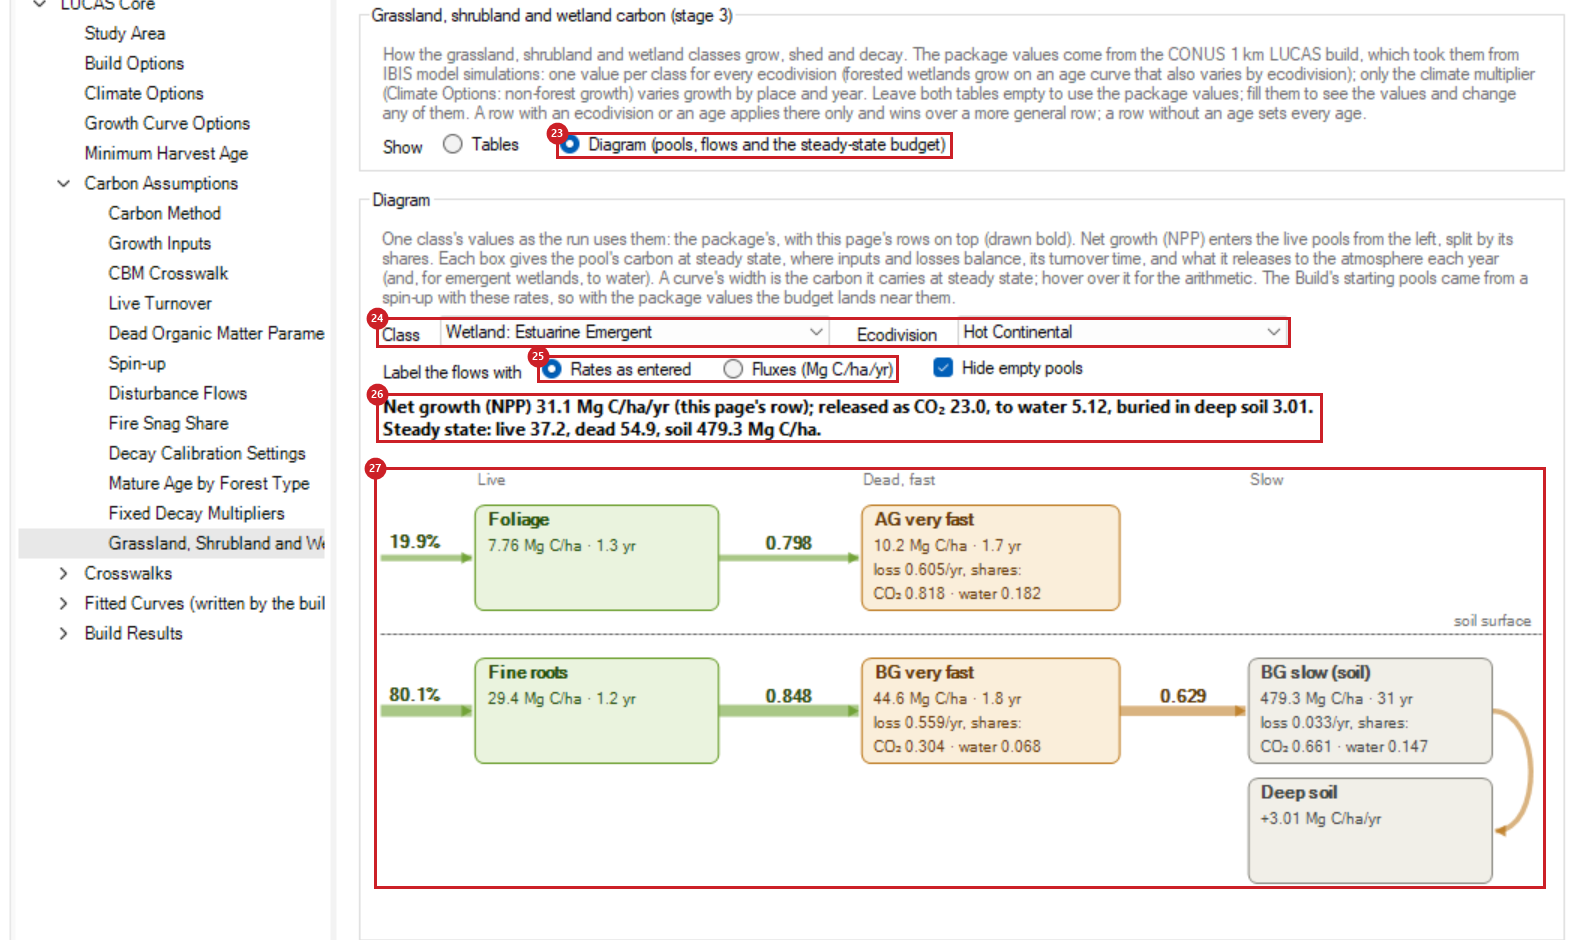
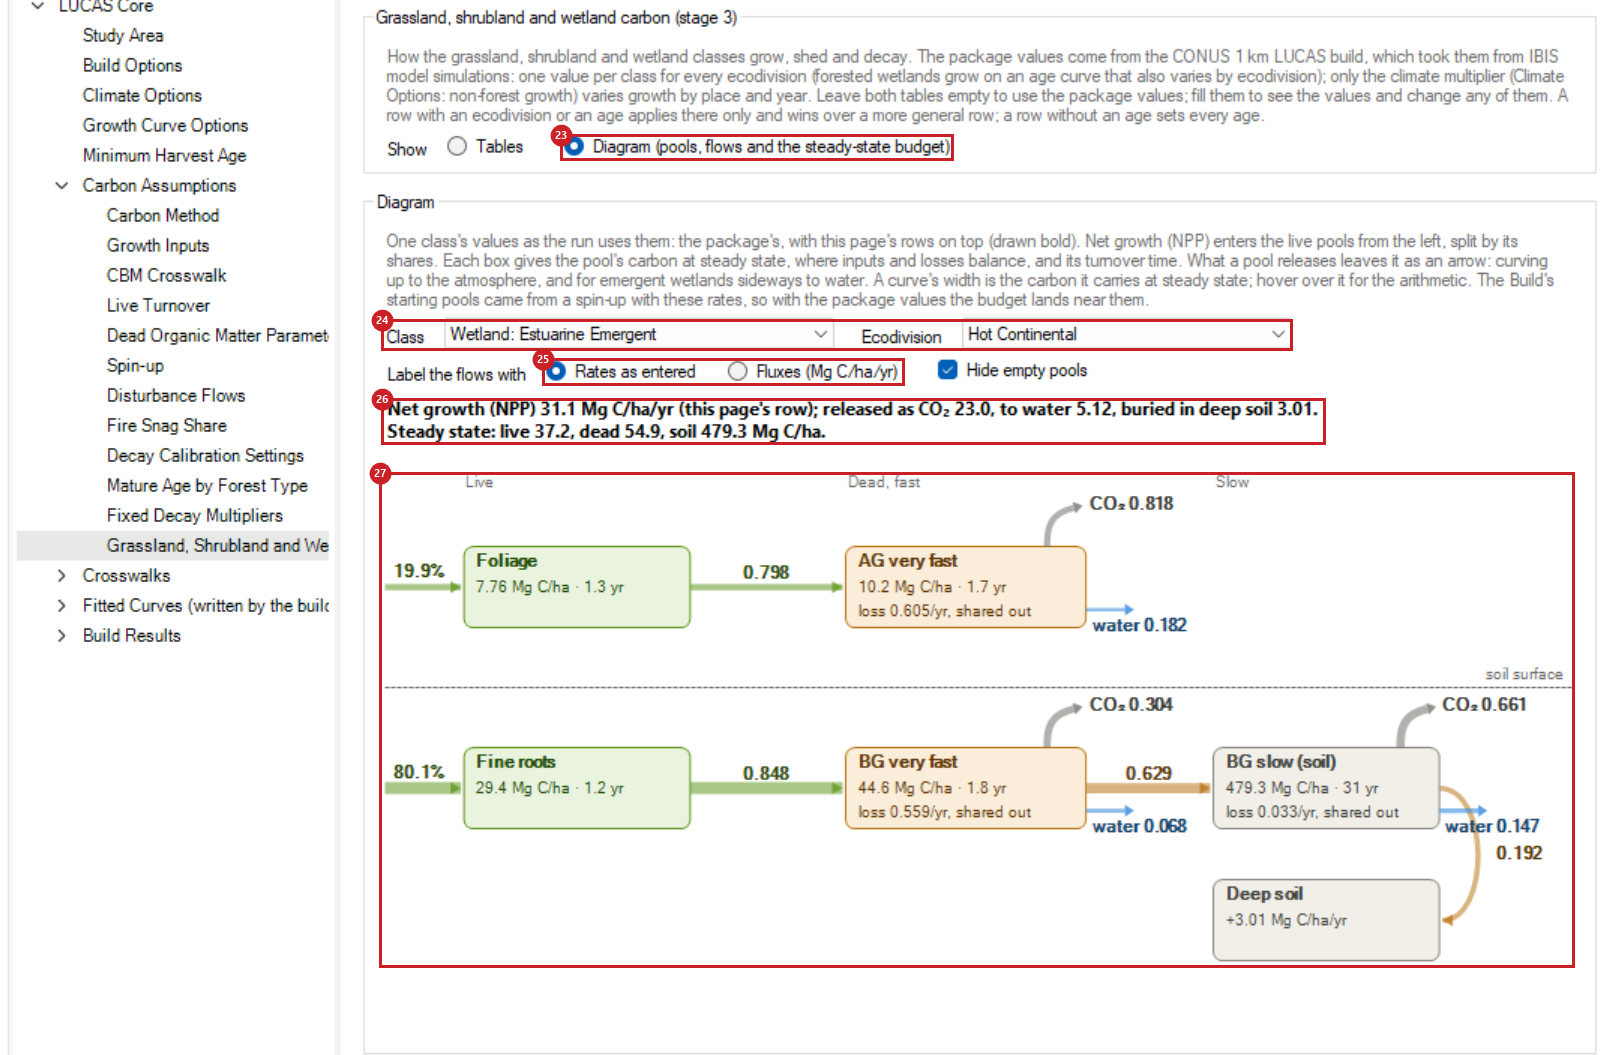
Guide: Figure 3.17 and its text show the diagram's CO2 and water outflow arrows; snapshot rebuilt

Changed region(s): [[0.0312, 0.0, 0.9981, 0.9564]]

diff --git a/docs/guide/index.html b/docs/guide/index.html
@@ -261,9 +261,9 @@ Dependencies: none. Pipeline: stages 0, 1, 5, 2, 3, 4, 6, 7, 8.</code></pre>
 <p>Change a value to override it; a row with an ecodivision or an age applies there only. Net Growth flows split a class&#39;s growth among its live pools and must add to 1. For emergent wetlands, a flow named for a pool alone (for example BG Slow -&gt;) is that pool&#39;s total yearly loss, and the flows out of it are shares of that loss, adding to 1. Stage 3 checks both and logs how many values differ from the package&#39;s. The starting carbon of these classes is still the package&#39;s table, so a changed rate acts from the first year but does not change the 1985 pools.</p>
 <p><img src="images/fig-3.16.png" loading="lazy" alt="The Grassland, Shrubland and Wetland Carbon page after Fill: the page marked 20, the Growth table 21 and the Rates table 22"></p>
 <p><em>Figure 3.16. Grassland, Shrubland and Wetland Carbon after Fill: each class&#39;s net growth, and the share or yearly rate of each flow.</em></p>
-<p><strong>Diagram view.</strong> <strong>Show: Diagram</strong> (23) draws one class as an ecologist would sketch it. Pick the class and ecodivision (24), and an age for forested wetlands, whose rates change with age. The values are the ones the Build uses: the package&#39;s, with this page&#39;s rows on top, drawn bold. Live pools sit on the left, fast dead pools in the middle and slow pools on the right, above and below the soil surface. Net growth (NPP) enters the live pools from the left, split by its shares. Each box gives the pool&#39;s carbon at steady state, where inputs and losses balance, its turnover time and its yearly release to the atmosphere (and to water, for emergent wetlands). A curve&#39;s width is the carbon it carries at steady state; label the curves with the rates as entered or with the fluxes (25), and hover over one for the rate x stock = flux arithmetic.</p>
+<p><strong>Diagram view.</strong> <strong>Show: Diagram</strong> (23) draws one class as an ecologist would sketch it. Pick the class and ecodivision (24), and an age for forested wetlands, whose rates change with age. The values are the ones the Build uses: the package&#39;s, with this page&#39;s rows on top, drawn bold. Live pools sit on the left, fast dead pools in the middle and slow pools on the right, above and below the soil surface. Net growth (NPP) enters the live pools from the left, split by its shares. Each box gives the pool&#39;s carbon at steady state, where inputs and losses balance, and its turnover time; an emergent wetland pool also gives its total yearly loss, which its outflows share. What a pool releases leaves it as an arrow: curving up from its top right corner to the atmosphere, and for emergent wetlands sideways to water. A curve&#39;s or arrow&#39;s width is the carbon it carries at steady state; label them with the rates as entered or with the fluxes (25), and hover over one for the rate x stock = flux arithmetic.</p>
 <p>The line above the drawing (26) totals the budget: NPP, what leaves as CO2, to water and into deep soil, the steady-state live, dead and soil carbon, and the class&#39;s starting pools in the newest Build result. Grassland and shrubland starting pools came from a spin-up with these rates, so the budget lands near them (chaparral in P26: live 7.0, dead 33.8 and soil 75.3 Mg C/ha, against starting pools of 7.0, 29.8 and 74.6), and a changed rate shows its long-run effect in the drawing (27) at once. The emergent wetlands&#39; rates settle well above their starting pools (palustrine emergent live 36 against 4.9 Mg C/ha), a mismatch for the science step to resolve.</p>
-<p><img src="images/fig-3.17.png" loading="lazy" alt="The diagram view for Wetland: Estuarine Emergent in Hot Continental: Show Diagram marked 23, the Class and Ecodivision drop-downs marked 24, the Rates as entered / Fluxes choice marked 25, the budget line (net growth 31.1 Mg C/ha/yr; released as CO2 23.0, to water 5.12, buried in deep soil 3.01; steady state live 37.2, dead 54.9, soil 479.3 Mg C/ha) marked 26, and the drawing marked 27: net growth entering foliage (19.9%) and fine roots (80.1%), turnover to AG very fast (0.798) and BG very fast (0.848), decay to BG slow (0.629), and BG slow feeding deep soil"></p>
+<p><img src="images/fig-3.17.png" loading="lazy" alt="The diagram view for Wetland: Estuarine Emergent in Hot Continental: Show Diagram marked 23, the Class and Ecodivision drop-downs marked 24, the Rates as entered / Fluxes choice marked 25, the budget line (net growth 31.1 Mg C/ha/yr; released as CO2 23.0, to water 5.12, buried in deep soil 3.01; steady state live 37.2, dead 54.9, soil 479.3 Mg C/ha) marked 26, and the drawing marked 27: net growth entering foliage (19.9%) and fine roots (80.1%), turnover to AG very fast (0.798) and BG very fast (0.848), decay to BG slow (0.629) and from it to deep soil (0.192), with CO2 arrows curving up from AG very fast (0.818), BG very fast (0.304) and BG slow (0.661) and water arrows to the right (0.182, 0.068 and 0.147)"></p>
 <p><em>Figure 3.17. The diagram view for estuarine emergent wetland in the Hot Continental ecodivision: 31.1 Mg C/ha/yr of net growth leaves as CO2 (23.0), to water (5.1) and into deep soil (3.0).</em></p>
 <p><strong>Spin-up</strong> (28) sets the history each forest cell&#39;s starting carbon is spun up with. Its defaults come from the study area, so the Build works them out: the return interval of stand-replacing fire from LANDFIRE&#39;s fire regime maps (stage 5), every past cycle ended by high-severity fire, and a cell outside the fire perimeters of 1900 to the start year starting from a clearcut (stage 8). Fill writes nothing here. The page lists each ecodivision and forest type with its cells and its LANDFIRE interval (29) from the newest Build result, named above the table; before the first Build it shows the package&#39;s provisional intervals. Type a value in a shaded column to replace a default: your interval (30), with the interval the run takes beside it (31), or the share of past cycles ended by clearcut and the last disturbance outside fire perimeters (32). <strong>All rows</strong>, below, also takes rows for a forest type in all ecodivisions; an ecodivision row wins over them.</p>
 <p><img src="images/fig-3.18.png" loading="lazy" alt="The Spin-up page with an empty sheet: Spin-up marked 28, the line naming Build result [53], and the table of ecodivisions and forest types with cells, the LANDFIRE interval column marked 29, Your interval marked 30, Interval used marked 31, and the share of cycles ended by clearcut and the last disturbance marked 32"></p>

diff --git a/docs/guide/source/user-guide.html b/docs/guide/source/user-guide.html
@@ -180,9 +180,9 @@ Dependencies: none. Pipeline: stages 0, 1, 5, 2, 3, 4, 6, 7, 8.</code></pre>
 <p>Change a value to override it; a row with an ecodivision or an age applies there only. Net Growth flows split a class&#39;s growth among its live pools and must add to 1. For emergent wetlands, a flow named for a pool alone (for example BG Slow -&gt;) is that pool&#39;s total yearly loss, and the flows out of it are shares of that loss, adding to 1. Stage 3 checks both and logs how many values differ from the package&#39;s. The starting carbon of these classes is still the package&#39;s table, so a changed rate acts from the first year but does not change the 1985 pools.</p>
 <p><img src="blob/f79b73ff-4c4e" alt="The Grassland, Shrubland and Wetland Carbon page after Fill: the page marked 20, the Growth table 21 and the Rates table 22"></p>
 <p><em>Figure 3.16. Grassland, Shrubland and Wetland Carbon after Fill: each class&#39;s net growth, and the share or yearly rate of each flow.</em></p>
-<p><strong>Diagram view.</strong> <strong>Show: Diagram</strong> (23) draws one class as an ecologist would sketch it. Pick the class and ecodivision (24), and an age for forested wetlands, whose rates change with age. The values are the ones the Build uses: the package&#39;s, with this page&#39;s rows on top, drawn bold. Live pools sit on the left, fast dead pools in the middle and slow pools on the right, above and below the soil surface. Net growth (NPP) enters the live pools from the left, split by its shares. Each box gives the pool&#39;s carbon at steady state, where inputs and losses balance, its turnover time and its yearly release to the atmosphere (and to water, for emergent wetlands). A curve&#39;s width is the carbon it carries at steady state; label the curves with the rates as entered or with the fluxes (25), and hover over one for the rate x stock = flux arithmetic.</p>
+<p><strong>Diagram view.</strong> <strong>Show: Diagram</strong> (23) draws one class as an ecologist would sketch it. Pick the class and ecodivision (24), and an age for forested wetlands, whose rates change with age. The values are the ones the Build uses: the package&#39;s, with this page&#39;s rows on top, drawn bold. Live pools sit on the left, fast dead pools in the middle and slow pools on the right, above and below the soil surface. Net growth (NPP) enters the live pools from the left, split by its shares. Each box gives the pool&#39;s carbon at steady state, where inputs and losses balance, and its turnover time; an emergent wetland pool also gives its total yearly loss, which its outflows share. What a pool releases leaves it as an arrow: curving up from its top right corner to the atmosphere, and for emergent wetlands sideways to water. A curve&#39;s or arrow&#39;s width is the carbon it carries at steady state; label them with the rates as entered or with the fluxes (25), and hover over one for the rate x stock = flux arithmetic.</p>
 <p>The line above the drawing (26) totals the budget: NPP, what leaves as CO2, to water and into deep soil, the steady-state live, dead and soil carbon, and the class&#39;s starting pools in the newest Build result. Grassland and shrubland starting pools came from a spin-up with these rates, so the budget lands near them (chaparral in P26: live 7.0, dead 33.8 and soil 75.3 Mg C/ha, against starting pools of 7.0, 29.8 and 74.6), and a changed rate shows its long-run effect in the drawing (27) at once. The emergent wetlands&#39; rates settle well above their starting pools (palustrine emergent live 36 against 4.9 Mg C/ha), a mismatch for the science step to resolve.</p>
-<p><img src="blob/ad1a9334-6dd4" alt="The diagram view for Wetland: Estuarine Emergent in Hot Continental: Show Diagram marked 23, the Class and Ecodivision drop-downs marked 24, the Rates as entered / Fluxes choice marked 25, the budget line (net growth 31.1 Mg C/ha/yr; released as CO2 23.0, to water 5.12, buried in deep soil 3.01; steady state live 37.2, dead 54.9, soil 479.3 Mg C/ha) marked 26, and the drawing marked 27: net growth entering foliage (19.9%) and fine roots (80.1%), turnover to AG very fast (0.798) and BG very fast (0.848), decay to BG slow (0.629), and BG slow feeding deep soil"></p>
+<p><img src="blob/7157dc3e-3bf4" alt="The diagram view for Wetland: Estuarine Emergent in Hot Continental: Show Diagram marked 23, the Class and Ecodivision drop-downs marked 24, the Rates as entered / Fluxes choice marked 25, the budget line (net growth 31.1 Mg C/ha/yr; released as CO2 23.0, to water 5.12, buried in deep soil 3.01; steady state live 37.2, dead 54.9, soil 479.3 Mg C/ha) marked 26, and the drawing marked 27: net growth entering foliage (19.9%) and fine roots (80.1%), turnover to AG very fast (0.798) and BG very fast (0.848), decay to BG slow (0.629) and from it to deep soil (0.192), with CO2 arrows curving up from AG very fast (0.818), BG very fast (0.304) and BG slow (0.661) and water arrows to the right (0.182, 0.068 and 0.147)"></p>
 <p><em>Figure 3.17. The diagram view for estuarine emergent wetland in the Hot Continental ecodivision: 31.1 Mg C/ha/yr of net growth leaves as CO2 (23.0), to water (5.1) and into deep soil (3.0).</em></p>
 <p><strong>Spin-up</strong> (28) sets the history each forest cell&#39;s starting carbon is spun up with. Its defaults come from the study area, so the Build works them out: the return interval of stand-replacing fire from LANDFIRE&#39;s fire regime maps (stage 5), every past cycle ended by high-severity fire, and a cell outside the fire perimeters of 1900 to the start year starting from a clearcut (stage 8). Fill writes nothing here. The page lists each ecodivision and forest type with its cells and its LANDFIRE interval (29) from the newest Build result, named above the table; before the first Build it shows the package&#39;s provisional intervals. Type a value in a shaded column to replace a default: your interval (30), with the interval the run takes beside it (31), or the share of past cycles ended by clearcut and the last disturbance outside fire perimeters (32). <strong>All rows</strong>, below, also takes rows for a forest type in all ecodivisions; an ecodivision row wins over them.</p>
 <p><img src="blob/1a62f022-0b22" alt="The Spin-up page with an empty sheet: Spin-up marked 28, the line naming Build result [53], and the table of ecodivisions and forest types with cells, the LANDFIRE interval column marked 29, Your interval marked 30, Interval used marked 31, and the share of cycles ended by clearcut and the last disturbance marked 32"></p>

diff --git a/docs/guide/user-guide.md b/docs/guide/user-guide.md
@@ -486,11 +486,11 @@ Change a value to override it; a row with an ecodivision or an age applies there
 
 *Figure 3.16. Grassland, Shrubland and Wetland Carbon after Fill: each class's net growth, and the share or yearly rate of each flow.*
 
-**Diagram view.** **Show: Diagram** (23) draws one class as an ecologist would sketch it. Pick the class and ecodivision (24), and an age for forested wetlands, whose rates change with age. The values are the ones the Build uses: the package's, with this page's rows on top, drawn bold. Live pools sit on the left, fast dead pools in the middle and slow pools on the right, above and below the soil surface. Net growth (NPP) enters the live pools from the left, split by its shares. Each box gives the pool's carbon at steady state, where inputs and losses balance, its turnover time and its yearly release to the atmosphere (and to water, for emergent wetlands). A curve's width is the carbon it carries at steady state; label the curves with the rates as entered or with the fluxes (25), and hover over one for the rate x stock = flux arithmetic.
+**Diagram view.** **Show: Diagram** (23) draws one class as an ecologist would sketch it. Pick the class and ecodivision (24), and an age for forested wetlands, whose rates change with age. The values are the ones the Build uses: the package's, with this page's rows on top, drawn bold. Live pools sit on the left, fast dead pools in the middle and slow pools on the right, above and below the soil surface. Net growth (NPP) enters the live pools from the left, split by its shares. Each box gives the pool's carbon at steady state, where inputs and losses balance, and its turnover time; an emergent wetland pool also gives its total yearly loss, which its outflows share. What a pool releases leaves it as an arrow: curving up from its top right corner to the atmosphere, and for emergent wetlands sideways to water. A curve's or arrow's width is the carbon it carries at steady state; label them with the rates as entered or with the fluxes (25), and hover over one for the rate x stock = flux arithmetic.
 
 The line above the drawing (26) totals the budget: NPP, what leaves as CO2, to water and into deep soil, the steady-state live, dead and soil carbon, and the class's starting pools in the newest Build result. Grassland and shrubland starting pools came from a spin-up with these rates, so the budget lands near them (chaparral in P26: live 7.0, dead 33.8 and soil 75.3 Mg C/ha, against starting pools of 7.0, 29.8 and 74.6), and a changed rate shows its long-run effect in the drawing (27) at once. The emergent wetlands' rates settle well above their starting pools (palustrine emergent live 36 against 4.9 Mg C/ha), a mismatch for the science step to resolve.
 
-![The diagram view for Wetland: Estuarine Emergent in Hot Continental: Show Diagram marked 23, the Class and Ecodivision drop-downs marked 24, the Rates as entered / Fluxes choice marked 25, the budget line (net growth 31.1 Mg C/ha/yr; released as CO2 23.0, to water 5.12, buried in deep soil 3.01; steady state live 37.2, dead 54.9, soil 479.3 Mg C/ha) marked 26, and the drawing marked 27: net growth entering foliage (19.9%) and fine roots (80.1%), turnover to AG very fast (0.798) and BG very fast (0.848), decay to BG slow (0.629), and BG slow feeding deep soil](images/fig-3.17.png)
+![The diagram view for Wetland: Estuarine Emergent in Hot Continental: Show Diagram marked 23, the Class and Ecodivision drop-downs marked 24, the Rates as entered / Fluxes choice marked 25, the budget line (net growth 31.1 Mg C/ha/yr; released as CO2 23.0, to water 5.12, buried in deep soil 3.01; steady state live 37.2, dead 54.9, soil 479.3 Mg C/ha) marked 26, and the drawing marked 27: net growth entering foliage (19.9%) and fine roots (80.1%), turnover to AG very fast (0.798) and BG very fast (0.848), decay to BG slow (0.629) and from it to deep soil (0.192), with CO2 arrows curving up from AG very fast (0.818), BG very fast (0.304) and BG slow (0.661) and water arrows to the right (0.182, 0.068 and 0.147)](images/fig-3.17.png)
 
 *Figure 3.17. The diagram view for estuarine emergent wetland in the Hot Continental ecodivision: 31.1 Mg C/ha/yr of net growth leaves as CO2 (23.0), to water (5.1) and into deep soil (3.0).*
 

diff --git a/docs/guide/source/user-guide.md b/docs/guide/source/user-guide.md
@@ -484,11 +484,11 @@ Change a value to override it; a row with an ecodivision or an age applies there
 
 *Figure 3.16. Grassland, Shrubland and Wetland Carbon after Fill: each class's net growth, and the share or yearly rate of each flow.*
 
-**Diagram view.** **Show: Diagram** (23) draws one class as an ecologist would sketch it. Pick the class and ecodivision (24), and an age for forested wetlands, whose rates change with age. The values are the ones the Build uses: the package's, with this page's rows on top, drawn bold. Live pools sit on the left, fast dead pools in the middle and slow pools on the right, above and below the soil surface. Net growth (NPP) enters the live pools from the left, split by its shares. Each box gives the pool's carbon at steady state, where inputs and losses balance, its turnover time and its yearly release to the atmosphere (and to water, for emergent wetlands). A curve's width is the carbon it carries at steady state; label the curves with the rates as entered or with the fluxes (25), and hover over one for the rate x stock = flux arithmetic.
+**Diagram view.** **Show: Diagram** (23) draws one class as an ecologist would sketch it. Pick the class and ecodivision (24), and an age for forested wetlands, whose rates change with age. The values are the ones the Build uses: the package's, with this page's rows on top, drawn bold. Live pools sit on the left, fast dead pools in the middle and slow pools on the right, above and below the soil surface. Net growth (NPP) enters the live pools from the left, split by its shares. Each box gives the pool's carbon at steady state, where inputs and losses balance, and its turnover time; an emergent wetland pool also gives its total yearly loss, which its outflows share. What a pool releases leaves it as an arrow: curving up from its top right corner to the atmosphere, and for emergent wetlands sideways to water. A curve's or arrow's width is the carbon it carries at steady state; label them with the rates as entered or with the fluxes (25), and hover over one for the rate x stock = flux arithmetic.
 
 The line above the drawing (26) totals the budget: NPP, what leaves as CO2, to water and into deep soil, the steady-state live, dead and soil carbon, and the class's starting pools in the newest Build result. Grassland and shrubland starting pools came from a spin-up with these rates, so the budget lands near them (chaparral in P26: live 7.0, dead 33.8 and soil 75.3 Mg C/ha, against starting pools of 7.0, 29.8 and 74.6), and a changed rate shows its long-run effect in the drawing (27) at once. The emergent wetlands' rates settle well above their starting pools (palustrine emergent live 36 against 4.9 Mg C/ha), a mismatch for the science step to resolve.
 
-&#91;image: The diagram view for Wetland: Estuarine Emergent in Hot Continental: Show Diagram marked 23, the Class and Ecodivision drop-downs marked 24, the Rates as entered / Fluxes choice marked 25, the budget line (net growth 31.1 Mg C/ha/yr; released as CO2 23.0, to water 5.12, buried in deep soil 3.01; steady state live 37.2, dead 54.9, soil 479.3 Mg C/ha) marked 26, and the drawing marked 27: net growth entering foliage (19.9%) and fine roots (80.1%), turnover to AG very fast (0.798) and BG very fast (0.848), decay to BG slow (0.629), and BG slow feeding deep soil\]
+&#91;image: The diagram view for Wetland: Estuarine Emergent in Hot Continental: Show Diagram marked 23, the Class and Ecodivision drop-downs marked 24, the Rates as entered / Fluxes choice marked 25, the budget line (net growth 31.1 Mg C/ha/yr; released as CO2 23.0, to water 5.12, buried in deep soil 3.01; steady state live 37.2, dead 54.9, soil 479.3 Mg C/ha) marked 26, and the drawing marked 27: net growth entering foliage (19.9%) and fine roots (80.1%), turnover to AG very fast (0.798) and BG very fast (0.848), decay to BG slow (0.629) and from it to deep soil (0.192), with CO2 arrows curving up from AG very fast (0.818), BG very fast (0.304) and BG slow (0.661) and water arrows to the right (0.182, 0.068 and 0.147)\]
 
 *Figure 3.17. The diagram view for estuarine emergent wetland in the Hot Continental ecodivision: 31.1 Mg C/ha/yr of net growth leaves as CO2 (23.0), to water (5.1) and into deep soil (3.0).*
 
